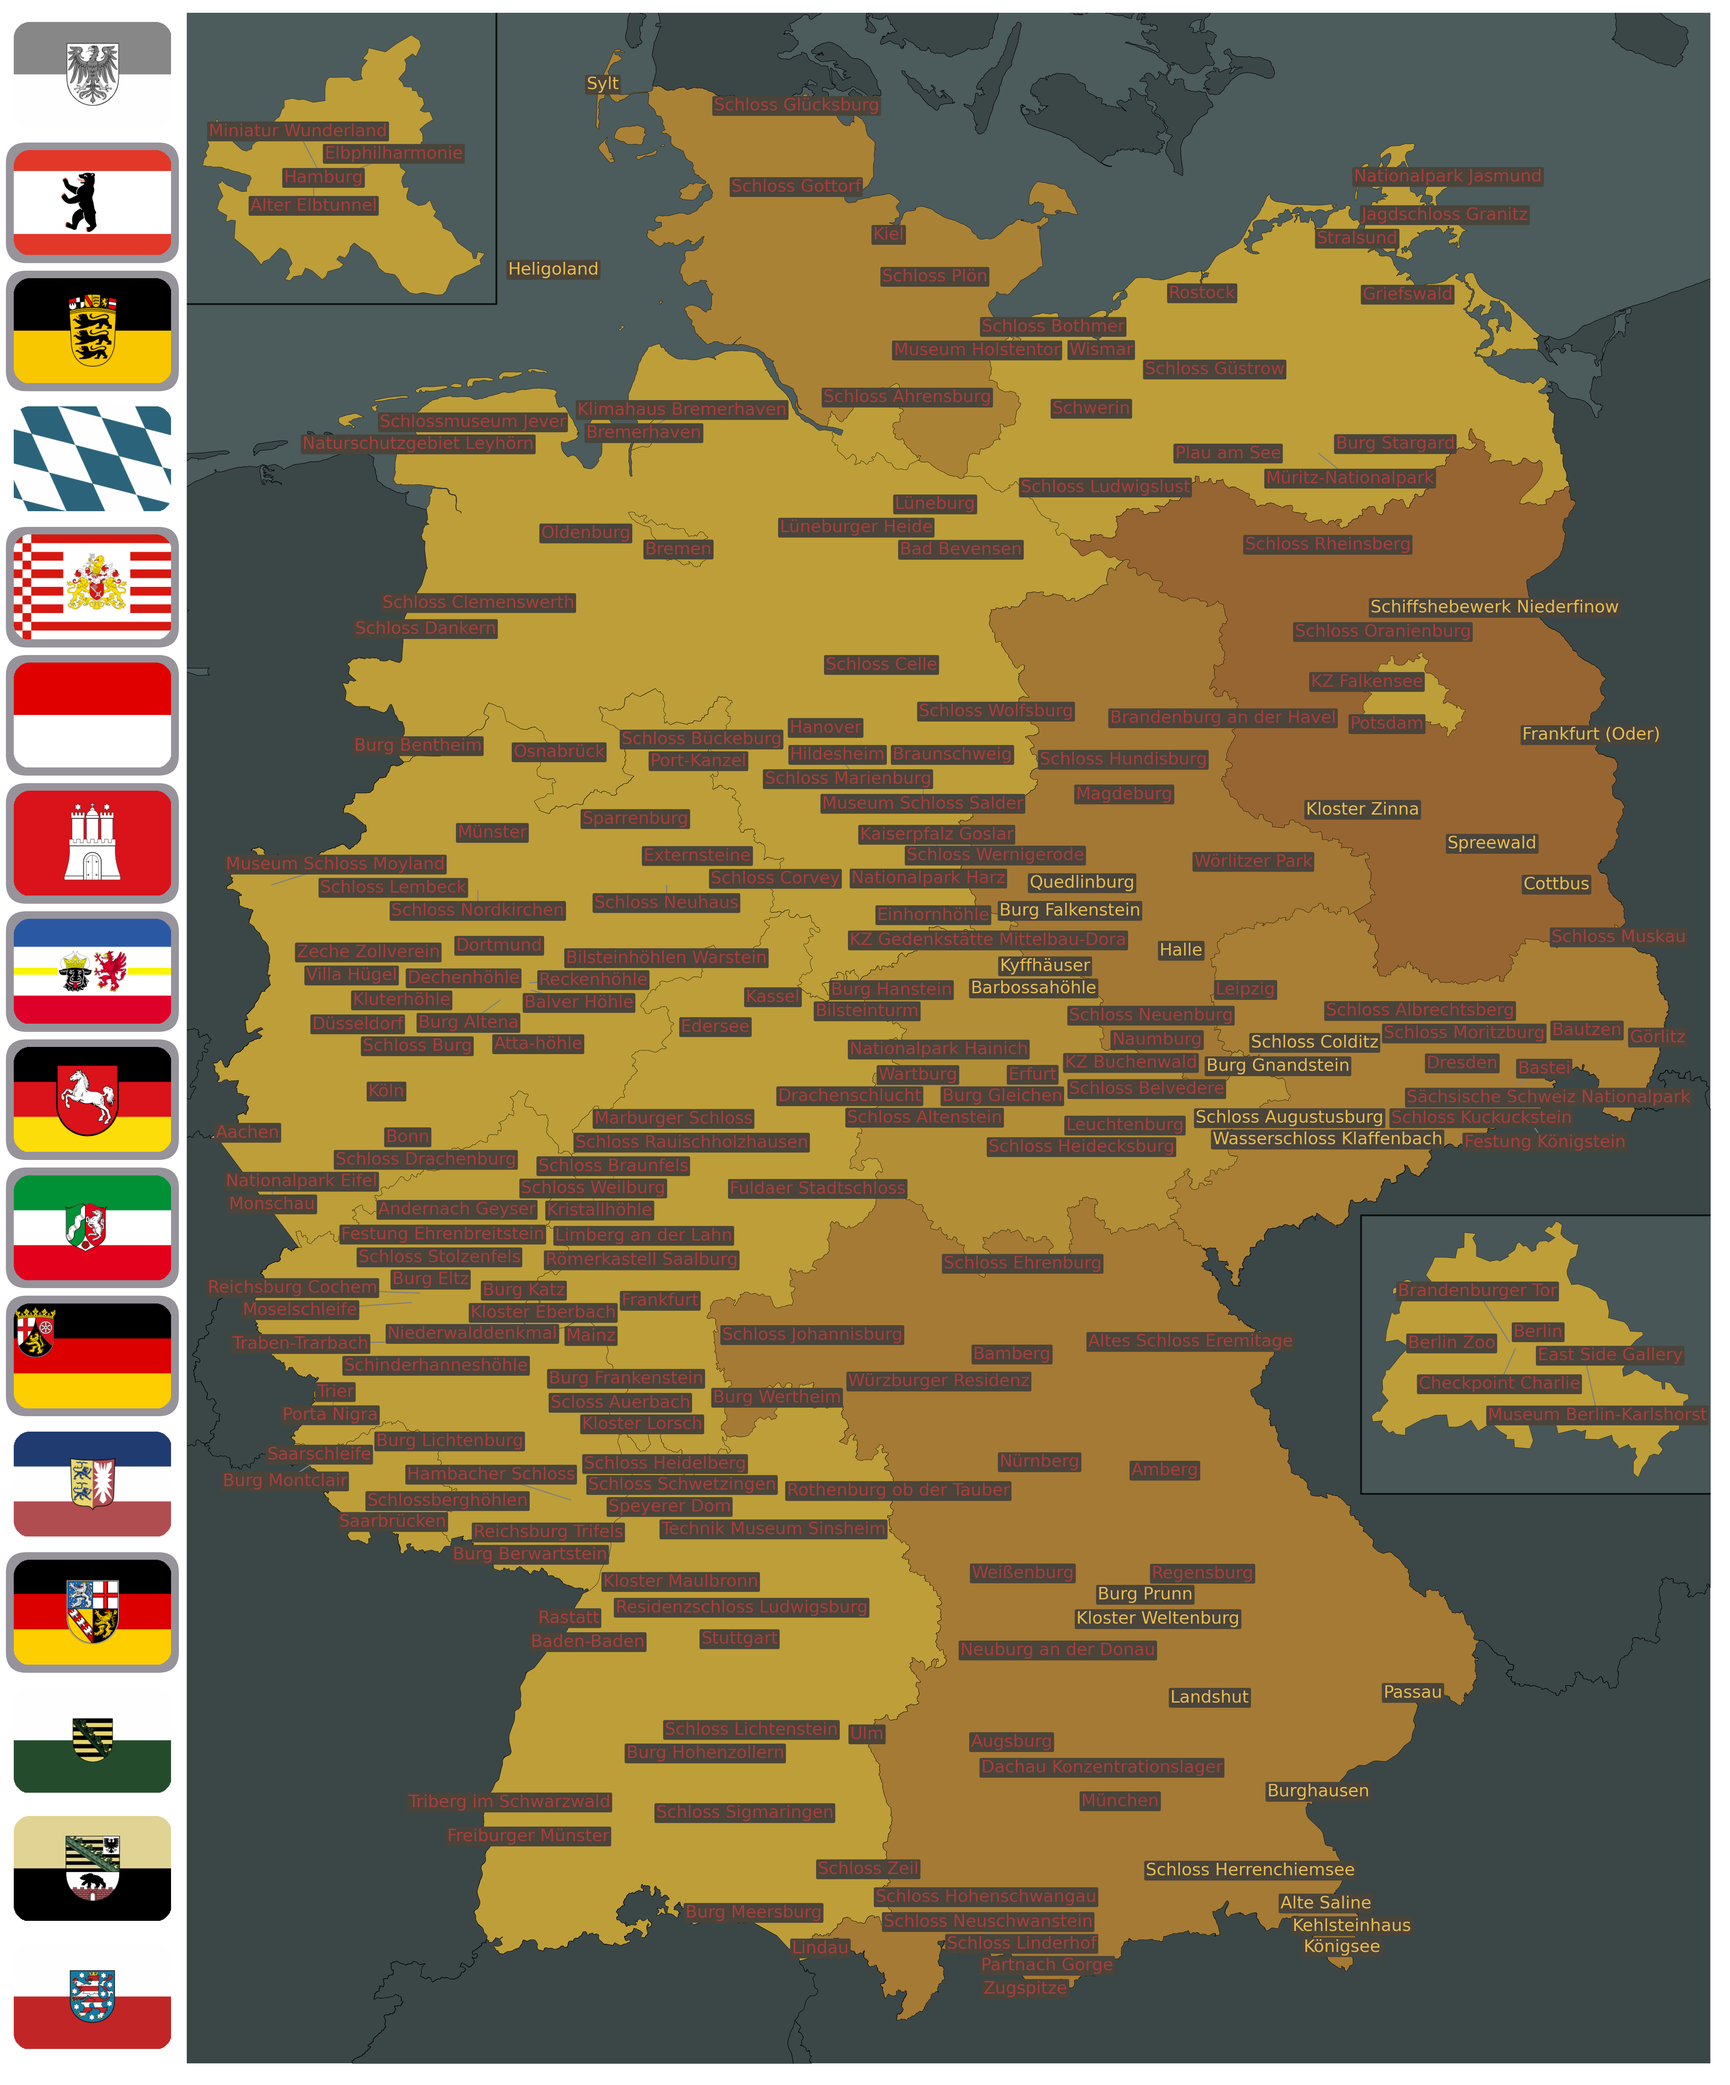
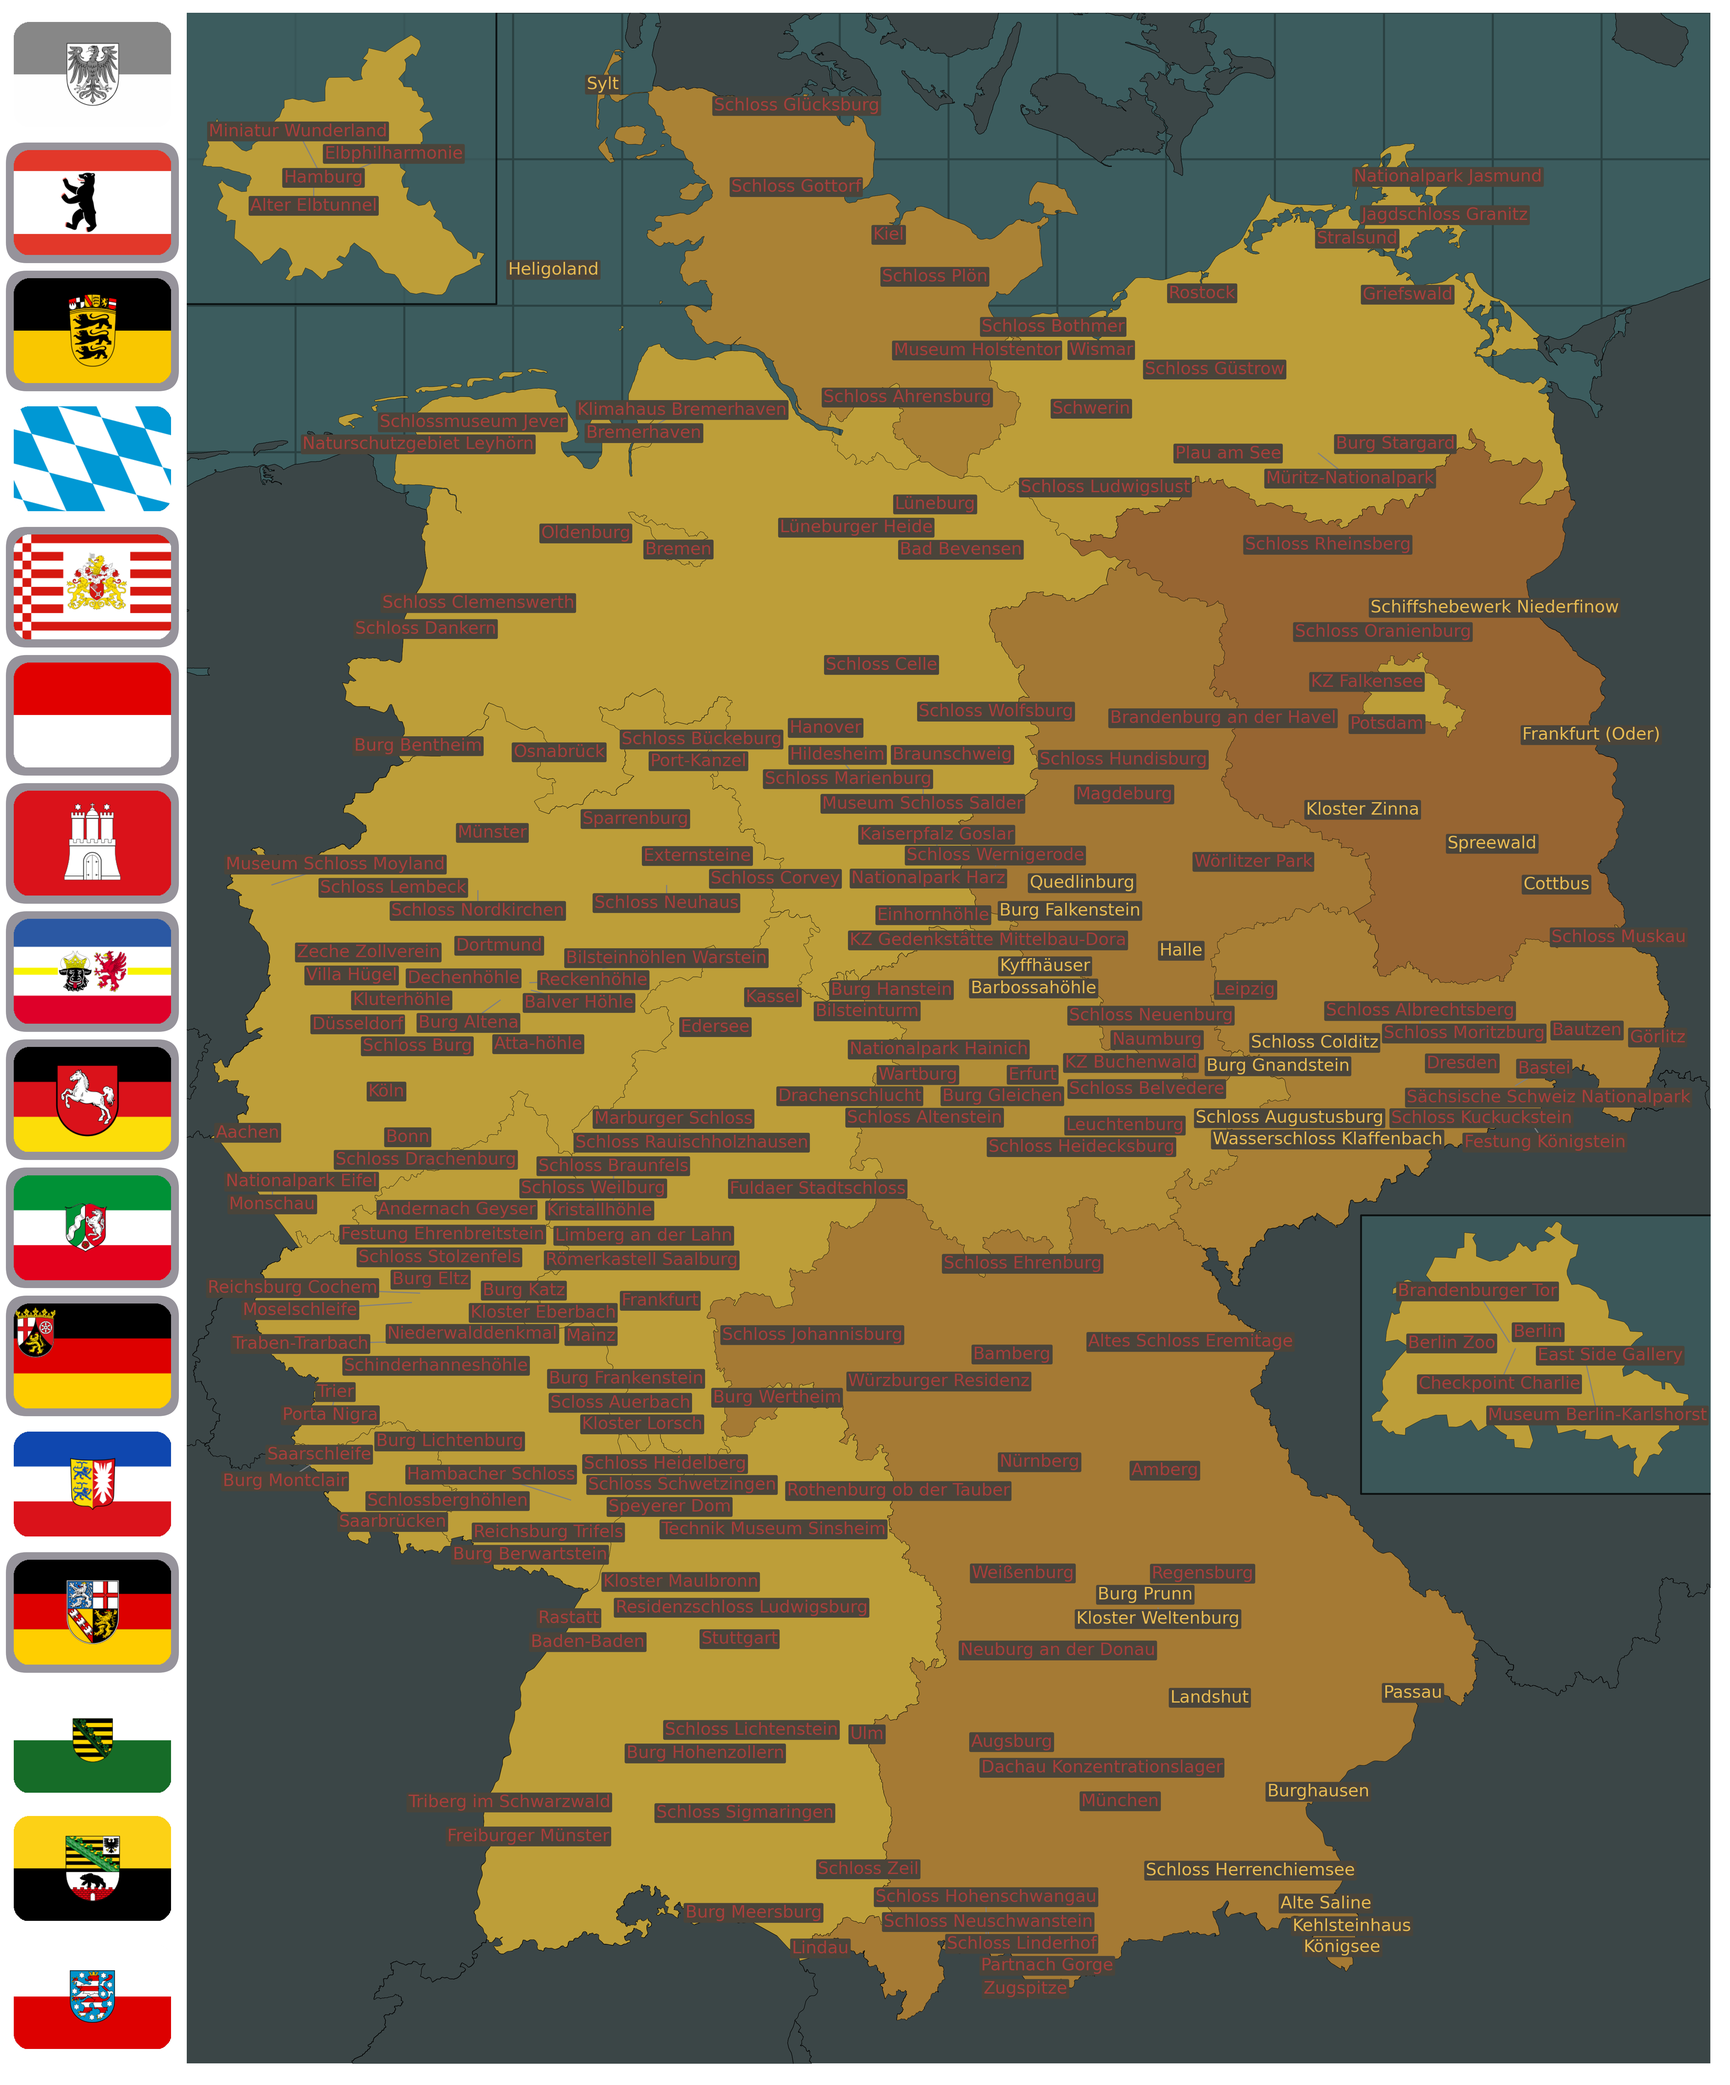
update map and coloration

diff --git a/plotting/plotting_manager.py b/plotting/plotting_manager.py
@@ -96,10 +96,9 @@ class PlotManager:
         ax.add_patch(rect)
 
         # Plot longitude/latitude lines
-        self.xlims
-        self.ylims
-        lat_lines = np.arange(self.ylims[0], self.ylims[1], 4)
-        long_lines = np.arange(self.xlims[0], self.xlims[1], 4)
+        intervals = int((self.xlims[1] - self.xlims[0])/4.5)
+        lat_lines = np.linspace(self.ylims[0], self.ylims[1], 15)
+        long_lines = np.linspace(self.xlims[0], self.xlims[1], 15)
         for lat_line in lat_lines:
             ax.axhline(y=lat_line, linewidth=2/math.sqrt(self.plot_scale), color=self.grid_lines, zorder=1)
         for long_line in long_lines:

diff --git a/main.py b/main.py
@@ -11,7 +11,7 @@ from utils.file_utils import ensure_directory_exists
 # Map Directory
 # US NP | Germany | Europe | Iran |
 #  "us" |    "de" |   "eu" | "ir" |
-PATH = "eu"
+PATH = "de"
 
 small_map = True
 small_gif = False
